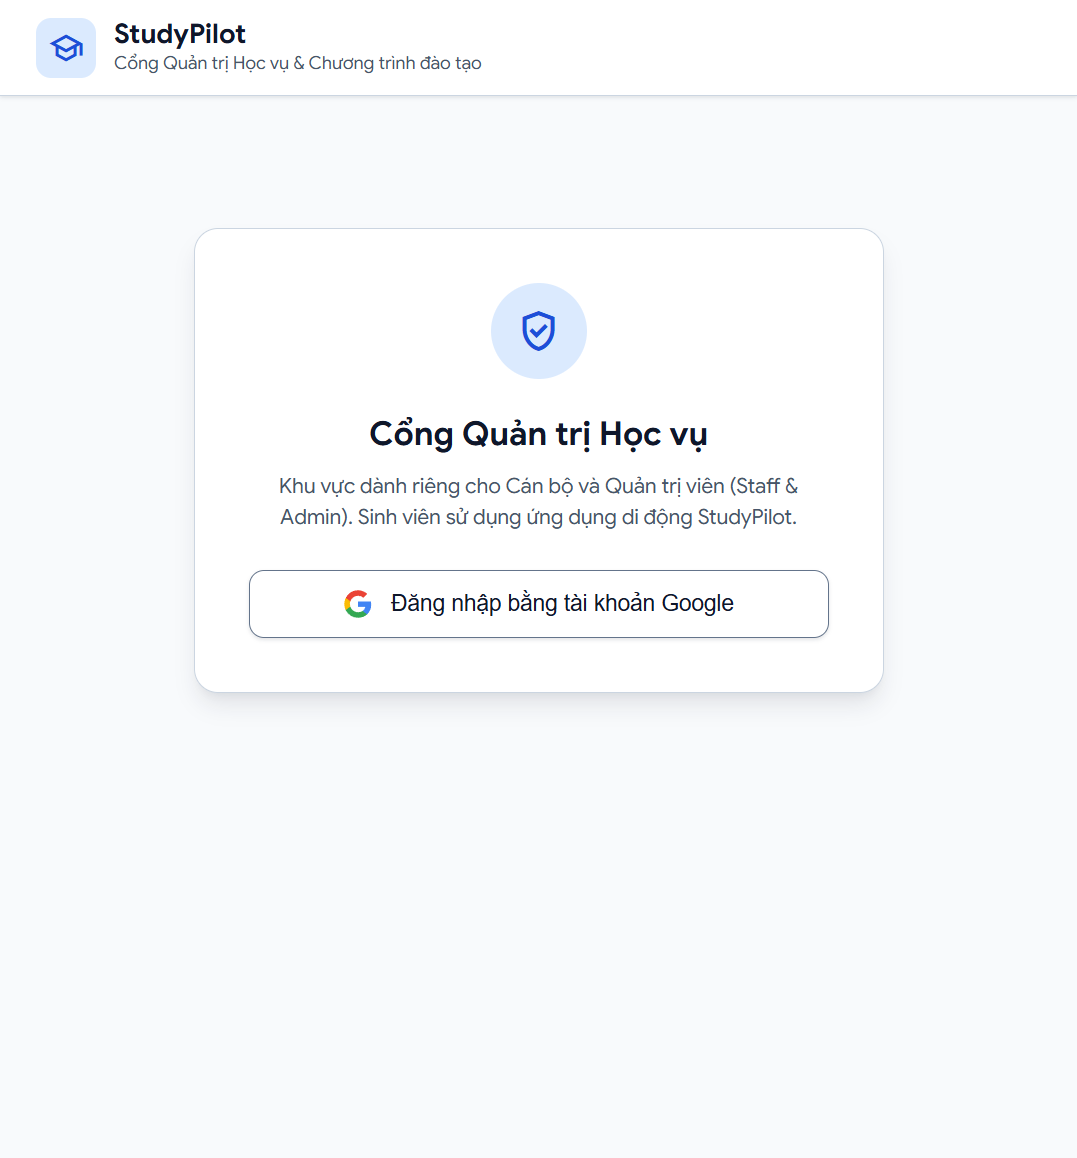
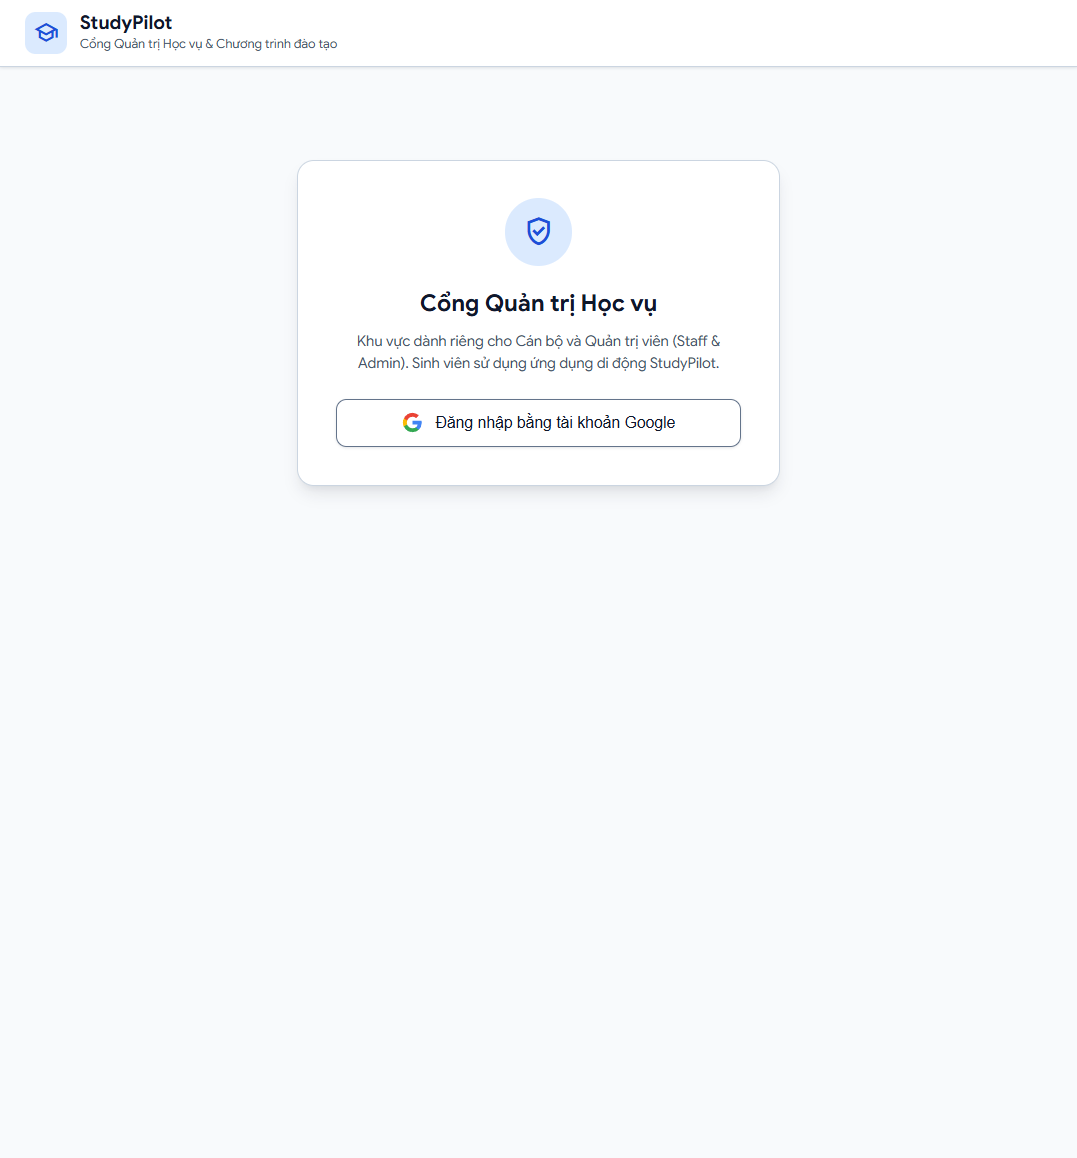
fix(core): sửa 2 crash Crashlytics; đồng bộ test PRM393 và bằng chứng Console 10/11
- ExperienceNote.fromDocument đọc reason an toàn khi trường vắng mặt.
- watchCourseNotes dùng broadcast + replay để tránh listen lại khi remount.
- Test E2E đổi PRM323 -> PRM393 (catalog thật); TC_08 đi đường quick-prompt tất định.
- Xác nhận rules siết đã live (G-09 đóng), RC Version 3 đủ 9 tham số, app đổi tên StudyPilot.
- Bổ sung ảnh Console RC/App Check/Crashlytics/Analytics và cập nhật gap-review, test-report.

Changed region(s): [[0.2451, 0.1554, 0.7354, 0.4663], [0.0, 0.0, 0.4596, 0.0933], [0.3064, 0.4974, 0.6741, 0.5285]]

diff --git a/tool/generate_final_report_pdf.dart b/tool/generate_final_report_pdf.dart
@@ -580,8 +580,8 @@ void main() async {
         widths: [80, 330, 113],
       ),
       note(
-        'Rules trong repo đã được deploy bản 04/11; bản siết ngày 10/11 mới kiểm thử emulator. '
-        'Cần deploy lại trước khi chấm (G-09); Hosting đã live (G-01).',
+        'Bản rules siết 10/11 đã deploy live (ruleset tạo 2026-11-10T15:09:37Z, logic khớp repo sau khi bỏ comment; G-09 đóng). '
+        'Hosting đã live (G-01). Bằng chứng: evidence/firebase/firestore/rules-api-verification-2026-11-10.json.',
       ),
     ]),
   );
@@ -765,22 +765,22 @@ void main() async {
       table(
         ['Tham số', 'Vai trò'],
         [
-          ['ai_study_plan_enabled', 'Bật/tắt nút gợi ý AI'],
-          ['ai_study_plan_model', 'Tên model (gemini-3.5-flash-lite)'],
-          ['ai_study_plan_prompt', 'System instruction bổ sung'],
-          ['ai_advisor_enabled', 'Bật/tắt cố vấn AI'],
-          ['feature_ai_advisor_enabled', 'Cờ tương thích Lab 3'],
           ['maintenance_mode', 'Chặn app khi bảo trì'],
           ['min_app_version', 'Chặn phiên bản cũ'],
+          ['feature_ai_advisor_enabled', 'Bật/tắt cố vấn AI'],
+          ['ai_advisor_model', 'Model cố vấn (gemini-3.5-flash-lite)'],
+          ['ai_advisor_prompt', 'System prompt của cố vấn'],
           ['vault_sync_interval_mins', 'Chu kỳ đồng bộ Vault'],
-          ['support_email', 'Địa chỉ hỗ trợ hiển thị trong app'],
+          ['study_plan_ai_enabled', 'Bật/tắt gợi ý kế hoạch học tập'],
+          ['study_plan_ai_model', 'Model gợi ý kế hoạch'],
+          ['study_plan_ai_prompt', 'System prompt gợi ý kế hoạch'],
         ],
         widths: [210, 313],
         size: 8,
       ),
       p(
         'Remote Config được fetch/activate khi khởi động; giá trị mặc định trong firebase/remote-config-template.json khớp '
-        'đúng 9 tham số app đọc (CR-22). Khi tắt cờ, nút AI biến mất nhưng form thủ công vẫn hoạt động.',
+        'đúng 9 tham số app đọc (CR-22). Bản live trên project là Version 3, publish ngày 10/11/2026. Khi tắt cờ, nút AI biến mất nhưng form thủ công vẫn hoạt động.',
       ),
       sub('8.2. App Check và dữ liệu gửi đi'),
       for (final item in const [

diff --git a/packages/core/lib/study_pilot_core.dart b/packages/core/lib/study_pilot_core.dart
@@ -79,7 +79,9 @@ class ExperienceNote {
       examTip = doc.get('examTip') as String? ?? '',
       rating = (doc.get('rating') as num?)?.toInt() ?? 0,
       status = doc.get('status') as String? ?? 'pending',
-      reason = doc.get('reason') as String? ?? '',
+      reason = doc.data()?.containsKey('reason') == true
+          ? doc.get('reason') as String
+          : '',
       createdAt = (doc.get('createdAt') as Timestamp?)?.toDate(),
       reviewedAt = (doc.get('reviewedAt') as Timestamp?)?.toDate();
 
@@ -155,9 +157,13 @@ class FinalFirestore {
     String courseDocId, {
     required String uid,
   }) {
-    final controller = StreamController<List<ExperienceNote>>();
+    // Broadcast: a course page can remount its StreamBuilders (tab switch,
+    // scroll recycle) and would otherwise hit "Stream has already been
+    // listened to" on a single-subscription controller.
+    final controller = StreamController<List<ExperienceNote>>.broadcast();
     List<ExperienceNote>? approvedNotes;
     List<ExperienceNote>? myNotes;
+    List<ExperienceNote>? latest;
     StreamSubscription<QuerySnapshot<Map<String, dynamic>>>? approvedSub;
     StreamSubscription<QuerySnapshot<Map<String, dynamic>>>? mineSub;
 
@@ -175,6 +181,7 @@ class FinalFirestore {
           final right = b.createdAt?.millisecondsSinceEpoch ?? 0;
           return right.compareTo(left);
         });
+      latest = list;
       controller.add(list);
     }
 
@@ -202,7 +209,16 @@ class FinalFirestore {
       approvedSub?.cancel();
       mineSub?.cancel();
     };
-    return controller.stream;
+    final stream = controller.stream;
+    return Stream<List<ExperienceNote>>.multi((listener) {
+      final current = latest;
+      if (current != null) listener.add(current);
+      final subscription = stream.listen(
+        listener.add,
+        onError: listener.addError,
+      );
+      listener.onCancel = subscription.cancel;
+    });
   }
 
   Future<List<ExperienceNote>> getApprovedExperienceNotes({

diff --git a/tool/generate_final_slides_pdf.dart b/tool/generate_final_slides_pdf.dart
@@ -583,7 +583,7 @@ void main() async {
         ],
       ),
       pw.Text(
-        'Bản rules 04/11 đã deploy; bản siết 10/11 mới kiểm thử emulator — cần deploy lại cùng Hosting (G-09).',
+        'Rules siết 10/11 đã deploy live (logic khớp repo, G-09 đóng); Hosting live (G-01).',
         style: t(8.5, color: PdfColors.brown900),
       ),
     ]),

diff --git a/e2e_test/test_curriculum_flow.py b/e2e_test/test_curriculum_flow.py
@@ -10,7 +10,7 @@ pytestmark = [skip_without_adb, pytest.mark.e2e]
 @require_artemis
 async def test_TC_F1_01_open_course_slots(artemis):
     observed = await artemis.run(
-        'From Home open Lộ trình, choose PRM323, open Lịch slot. Read all three course-tab labels. Report the number of actual detailed slots and the empty-state message when zero; do not treat total-slot defaults as slot records.',
+        'From Home open Lộ trình, choose PRM393, open Lịch slot. Read all three course-tab labels. Report the number of actual detailed slots and the empty-state message when zero; do not treat total-slot defaults as slot records.',
         {'tabs': 'array of course tabs', 'slot_count': 'integer', 'slot_empty_message': 'string'},
     )
     assert set(['Lịch slot','Đánh giá','Tổng quan']).issubset(set(observed['tabs']))
@@ -29,23 +29,23 @@ async def test_TC_F1_02_search_course(artemis):
     native = observed['native_visible_text']
     assert re.search(r'^PRM[ \t]*$', native, re.MULTILINE), 'Search field does not contain PRM'
     codes = re.findall(r'^[ \t]*\d+, ([A-Z]+\d+[A-Z0-9]*)\b', native, re.MULTILINE)
-    assert 'PRM323' in codes
+    assert 'PRM393' in codes
     assert all(code.startswith('PRM') for code in codes)
     assert set(observed['course_codes']) == set(codes)
 
 @require_artemis
 async def test_TC_F1_04_ask_ai_branch(artemis):
     observed = await artemis.run(
-        'From Home open Lộ trình, PRM323, Tổng quan, then Hỏi cố vấn về PRM323. Do not send the question. Read the prefilled question and final screen title.',
+        'From Home open Lộ trình, PRM393, Tổng quan, then Hỏi cố vấn về PRM393. Do not send the question. Read the prefilled question and final screen title.',
         {'screen_title': 'literal screen title', 'prefilled_question': 'literal text in question field'},
     )
     equals(observed,'screen_title','Cố vấn học tập')
-    assert 'PRM323' in observed['prefilled_question']
+    assert 'PRM393' in observed['prefilled_question']
 
 @require_artemis
 async def test_TC_05_prerequisite_check(artemis):
     observed = await artemis.run(
-        'From Home open PRM323 course detail, Tổng quan. Read the actual prerequisite state and missing prerequisite codes. Do not invent transcript data.',
+        'From Home open PRM393 course detail, Tổng quan. Read the actual prerequisite state and missing prerequisite codes. Do not invent transcript data.',
         {'prerequisite_state': 'eligible or missing', 'missing_codes': 'array'},
     )
     assert observed['prerequisite_state'] in {'eligible','missing'}

diff --git a/e2e_test/test_advisor_error_flow.py b/e2e_test/test_advisor_error_flow.py
@@ -8,12 +8,12 @@ pytestmark = [skip_without_adb, pytest.mark.e2e]
 @require_artemis
 async def test_TC_08_advisor_course_question(artemis):
     observed = await artemis.run(
-        "From Home open Cố vấn học tập. Choose Môn học, ask 'Tư vấn môn PRM323', accept the question consent if shown. Wait for the real reply and report its exact text; it must ground credits/prerequisites in Firebase and disclose missing personal data.",
+        "From Home open Cố vấn học tập. Tap the 'Môn' level chip. Tap 'Hỏi nhanh trên thiết bị · không cần mạng' to open the quick-question sheet. Tap the 'Chọn môn' dropdown once to open its course list; 'PRM393 — Mobile Programming' is a row near the top of that list. Tap that PRM393 row directly by its visible text to select it — do not tap the dropdown field again while the list is open, and do not use element-index clicks. Then tap 'Tóm tắt môn học'. Read the resulting card and report its literal answer and source line; it must ground credits/prerequisites in Firebase and disclose missing personal data.",
         {'reply': 'literal reply text'},
     )
-    assert 'PRM323' in observed['reply']
-    assert 'tín chỉ' in observed['reply']
-    assert 'Nguồn:' in observed['reply']
+    assert 'PRM393' in observed['native_visible_text']
+    assert 'tín chỉ' in observed['reply'].casefold()
+    assert 'Nguồn:' in observed['native_visible_text']
 
 @require_artemis
 async def test_TC_09_empty_search_recovery(artemis):

diff --git a/e2e_test/test_instrumentation_errors.py b/e2e_test/test_instrumentation_errors.py
@@ -48,10 +48,10 @@ async def test_TC_S_07_fcm_native_notification_settings(artemis):
 async def test_TC_14_analytics_events_log(artemis, logcat):
     logcat.start('TC-14')
     observed = await artemis.run(
-        'From Home open Lộ trình. Tap the search field before typing PRM. Wait until the field visibly contains PRM and the list shows only matching courses. If the field still shows its placeholder, tap and type again. Open PRM323 only after verifying the filter. Report the shown course code and final screen title. The runner checks the actual logs for search_course and course_view.',
+        'From Home open Lộ trình. Tap the search field before typing PRM. Wait until the field visibly contains PRM and the list shows only matching courses. If the field still shows its placeholder, tap and type again. Open PRM393 only after verifying the filter. Report the shown course code and final screen title. The runner checks the actual logs for search_course and course_view.',
         {'course_code': 'literal course code'},
     )
-    equals(observed,'course_code','PRM323')
+    equals(observed,'course_code','PRM393')
     text=logcat.stop_and_text()
     assert 'Logged event: search_course' in text
     assert 'Logged event: course_view' in text

diff --git a/docs/test-report.md b/docs/test-report.md
@@ -34,7 +34,7 @@ node --test
 | `node --test` (web) | **14/14 pass** | 9 parser FLM + 5 API server |
 | `node --check admin-web/app.js` | **PASS** | Cú pháp ES module |
 
-> **Phạm vi rules:** 15/15 là kết quả trên Firestore Emulator với project demo. Bản rules remote đang chạy vẫn là release 04/11; bản siết 10/11 (commit `e5256c1`) chưa deploy — hạng mục G-09. Không dùng kết quả emulator để nói rules mới đã live.
+> **Phạm vi rules:** 15/15 là kết quả trên Firestore Emulator với project demo. Bản rules siết 10/11 (commit `e5256c1`) **đã deploy live**: ruleset tạo 2026-11-10T15:09:37Z, logic khớp `firebase/firestore.rules` sau khi bỏ comment (`codeMatchIgnoringComments: true`) — xem `evidence/firebase/firestore/rules-api-verification-2026-11-10.json`. G-09 đã đóng.
 
 ### 2.1 Rules — phạm vi 15 test
 
@@ -67,14 +67,29 @@ Hai tệp dùng cùng system instruction/prompt với `lib/services/study_plan_a
 - TC_13 (FCM token sau cold start): `3 passed in 57.51s`, trace `a23c7a10…`, `034ff4e6…`, `4b13c8b5…`.
 - TC_11 (Remote Config): pass 3/3 trên giả lập, đối chiếu giá trị trước/sau.
 - Lượt timeout TC_02 được giữ trong lịch sử, không tính pass.
+- **10/11 trên điện thoại thật (GQDIV8HUPJWK79XC):** sau khi gỡ chặn HyperOS, TC_08 pass 92,20 s và TC_11 pass 41,56 s với model `gemini-3.5-flash-lite`. Batch regression 22 ca × 3 lượt đang chạy; kết quả từng lượt nằm trong `evidence/artemis/results-*.md`.
 
-### 3.2 Chưa đạt
+### 3.2 Sửa lỗi phát hiện từ Crashlytics (10/11)
+
+| Lỗi | Nguyên nhân | Sửa |
+|---|---|---|
+| `DocumentSnapshotPlatform.get._findKeyValueInMap` — "field reason does not exist" (3 event, 1 user) | `ExperienceNote.fromDocument` đọc `reason` bằng `as String` khi document cũ không có trường | Đọc qua `data()?.containsKey('reason')`, mặc định `''` |
+| `_StreamImpl.listen` — "Stream has already been listened to" (7 event, 2 user) | `watchCourseNotes` trả single-subscription stream, widget remount (đổi tab, recycle) listen lần hai | Broadcast controller + replay giá trị cuối cho listener mới |
+
+Cả hai sửa trong `packages/core/lib/study_pilot_core.dart`; `dart analyze` sạch, APK debug build lại và cài lên máy thật trước khi chạy batch.
+
+### 3.3 Dữ liệu kiểm thử
+
+Kịch bản cũ hardcode PRM323, nhưng catalog thật chỉ có PRM393 trong nhóm PRM (175 môn). Toàn bộ test case đã đổi sang **PRM393** (3 tín chỉ, học kỳ 8, tiên quyết PRO192, 60 slot). TC_08 được viết lại theo đường tất định: chip **Môn** → **Hỏi nhanh trên thiết bị** → chọn PRM393 → **Tóm tắt môn học**, thay vì phụ thuộc câu hỏi tự do.
+
+### 3.4 Chưa đạt
 
 | Mục | Trạng thái | Ghi chú |
 |---|---|---|
-| TC_14 Analytics `search_course`/`course_view` | **Fail** | Gemini trả HTTP 429 do giới hạn theo phút; trace `da4a9901…` |
+| TC_14 Analytics `search_course`/`course_view` | **Chạy lại trong batch 10/11** | Lượt trước fail vì Gemini HTTP 429; đã đổi model mặc định sang `gemini-3.5-flash-lite` |
 | Exploratory ≥ 15 phút | **Chưa đạt** | Lượt dài nhất ~9 phút; lượt thứ hai dừng ở 7,5 phút vì HTTP 429 |
-| 26 kịch bản Final trên **điện thoại thật** × 3 lượt | **Chưa chạy** | Thiết bị đang khóa (MIUI chặn ADB input); kịch bản nằm trong `docs/test-plan.md` |
+| 26 kịch bản Final trên **điện thoại thật** × 3 lượt | **Đang chạy 10/11** | Batch 22 ca hồi quy (trừ TC_01/02/12 cần đổi tài khoản); kết quả ghi theo từng lượt |
+| TC_01/02/12 (auth, đổi tài khoản) | **Skip** | Cần đặt `TEST_ACCOUNT_EMAIL` và `E2E_ALLOW_AUTH_CHANGES=1` |
 | Cross-role 3 lượt trên hệ thống deploy | **Chưa chạy** | Web đã deploy 10/11 (G-01); còn đo độ trễ khi demo |
 
 Ma trận 26 ca, tiền điều kiện và kết quả mong đợi: `docs/test-plan.md`. Không dùng kết quả giả lập thay cho yêu cầu thiết bị thật.

diff --git a/evidence/README.md b/evidence/README.md
@@ -17,6 +17,10 @@
 - [Lượt chạy ARTEMIS tìm môn, kết quả từng trace và lỗi quota](artemis/2026-11-05-search-run.md)
 - [ARTEMIS TC_11 pass 3/3 lượt ngày 07/11](artemis/2026-11-07-regression.md)
 - [Web deploy live, trang đăng nhập](firebase/auth/web-deploy-signin-2026-11-10.png) — `https://prm323-lab2-gr6.web.app/`, kiểm tra 10/11.
+- [Remote Config bản live Version 3, 9 tham số — ảnh 1](firebase/remote-config/console-params-2026-11-10.png) và [ảnh 2](firebase/remote-config/console-params-2-2026-11-10.png) — publish từ `firebase/remote-config-template.json`.
+- [App Check — tab APIs](firebase/app-check-console-2026-11-10.png) và [tab Apps sau khi đổi tên StudyPilot](firebase/app-check-apps-2026-11-10.png).
+- [Crashlytics dashboard sau đổi tên](firebase/crashlytics/dashboard-2026-11-10.png) và [danh sách issue](firebase/crashlytics/issues-2026-11-10.png) — hai lỗi `reason`/`_StreamImpl.listen` được sửa cùng ngày.
+- [Analytics DebugView trên Console](firebase/analytics/debugview-console-2026-11-10.png) — chụp lúc chưa có event debug.
 - [Tổng hợp 10 ca ARTEMIS và phiên exploratory 08/11](artemis/2026-11-08-completion.md)
 
 
